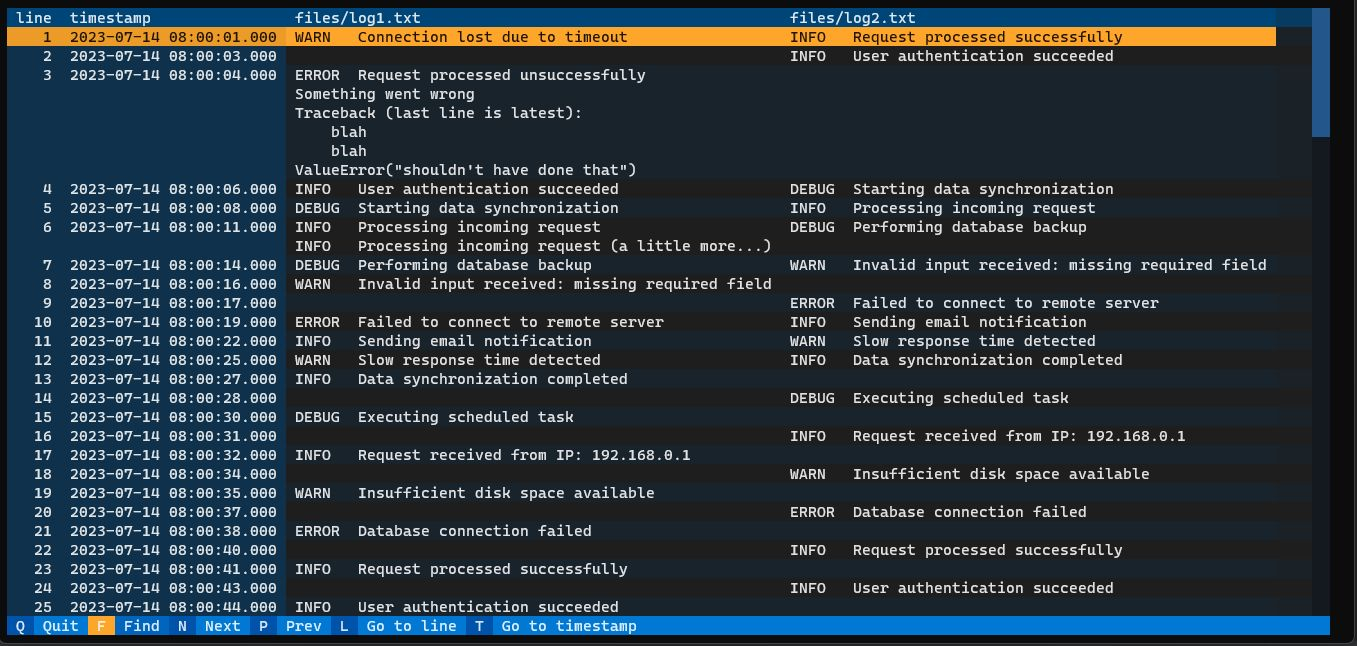
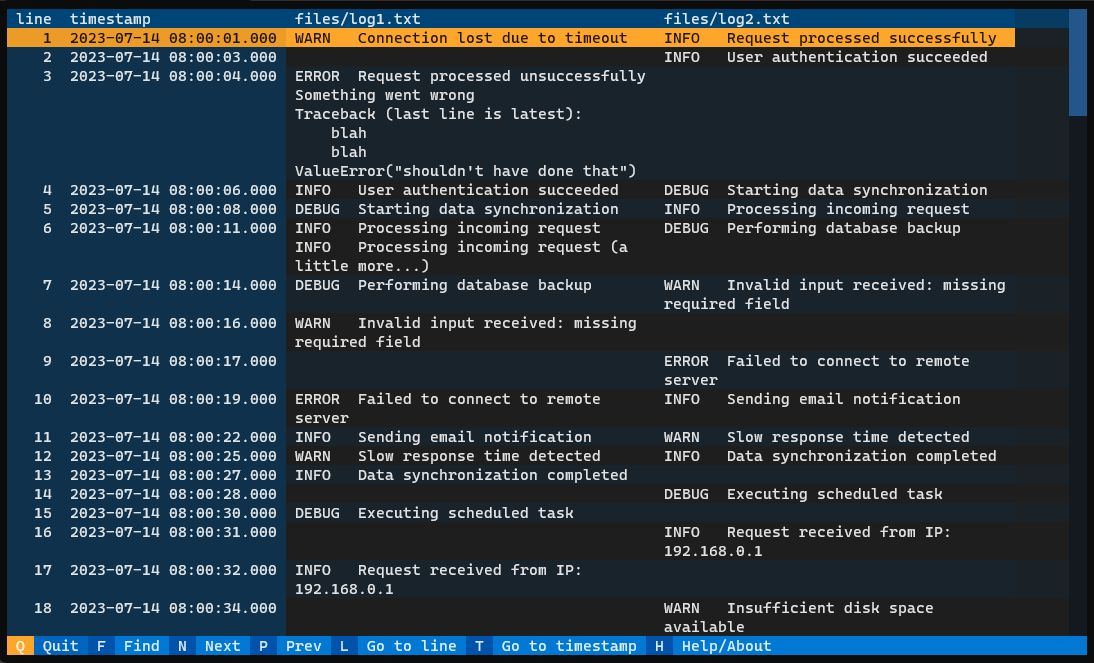
Some code cleanup, and update screenshots.

Changed region(s): [[0.0, 0.0, 1.0, 1.0]]

diff --git a/log_merger/interactive_viewing.py b/log_merger/interactive_viewing.py
@@ -17,6 +17,7 @@ class InteractiveLogMergeViewerApp(App):
     """
     Class to display merged results using textual TUI.
     """
+    TITLE = "log_merger"
 
     BINDINGS = [
         Binding(key="q", action="quit", description="Quit"),
@@ -25,7 +26,7 @@ class InteractiveLogMergeViewerApp(App):
         Binding(key="p", action="find_prev", description="Prev"),
         Binding(key="l", action="goto_line", description="Go to line"),
         Binding(key="t", action="goto_timestamp", description="Go to timestamp"),
-        Binding(key="h", action="help_about", description="Help/About")
+        Binding(key="h", action="help_about", description="Help/About"),
     ]
 
     def __init__(self, *args, **kwargs):
@@ -217,6 +218,10 @@ class InteractiveLogMergeViewerApp(App):
             len(self.merged_log_lines_table)
         )
         self.move_cursor_to_line_number(str(line_for_timestamp))
+
+    #
+    # methods to support help/about
+    #
 
     def action_help_about(self):
         from .about import text
